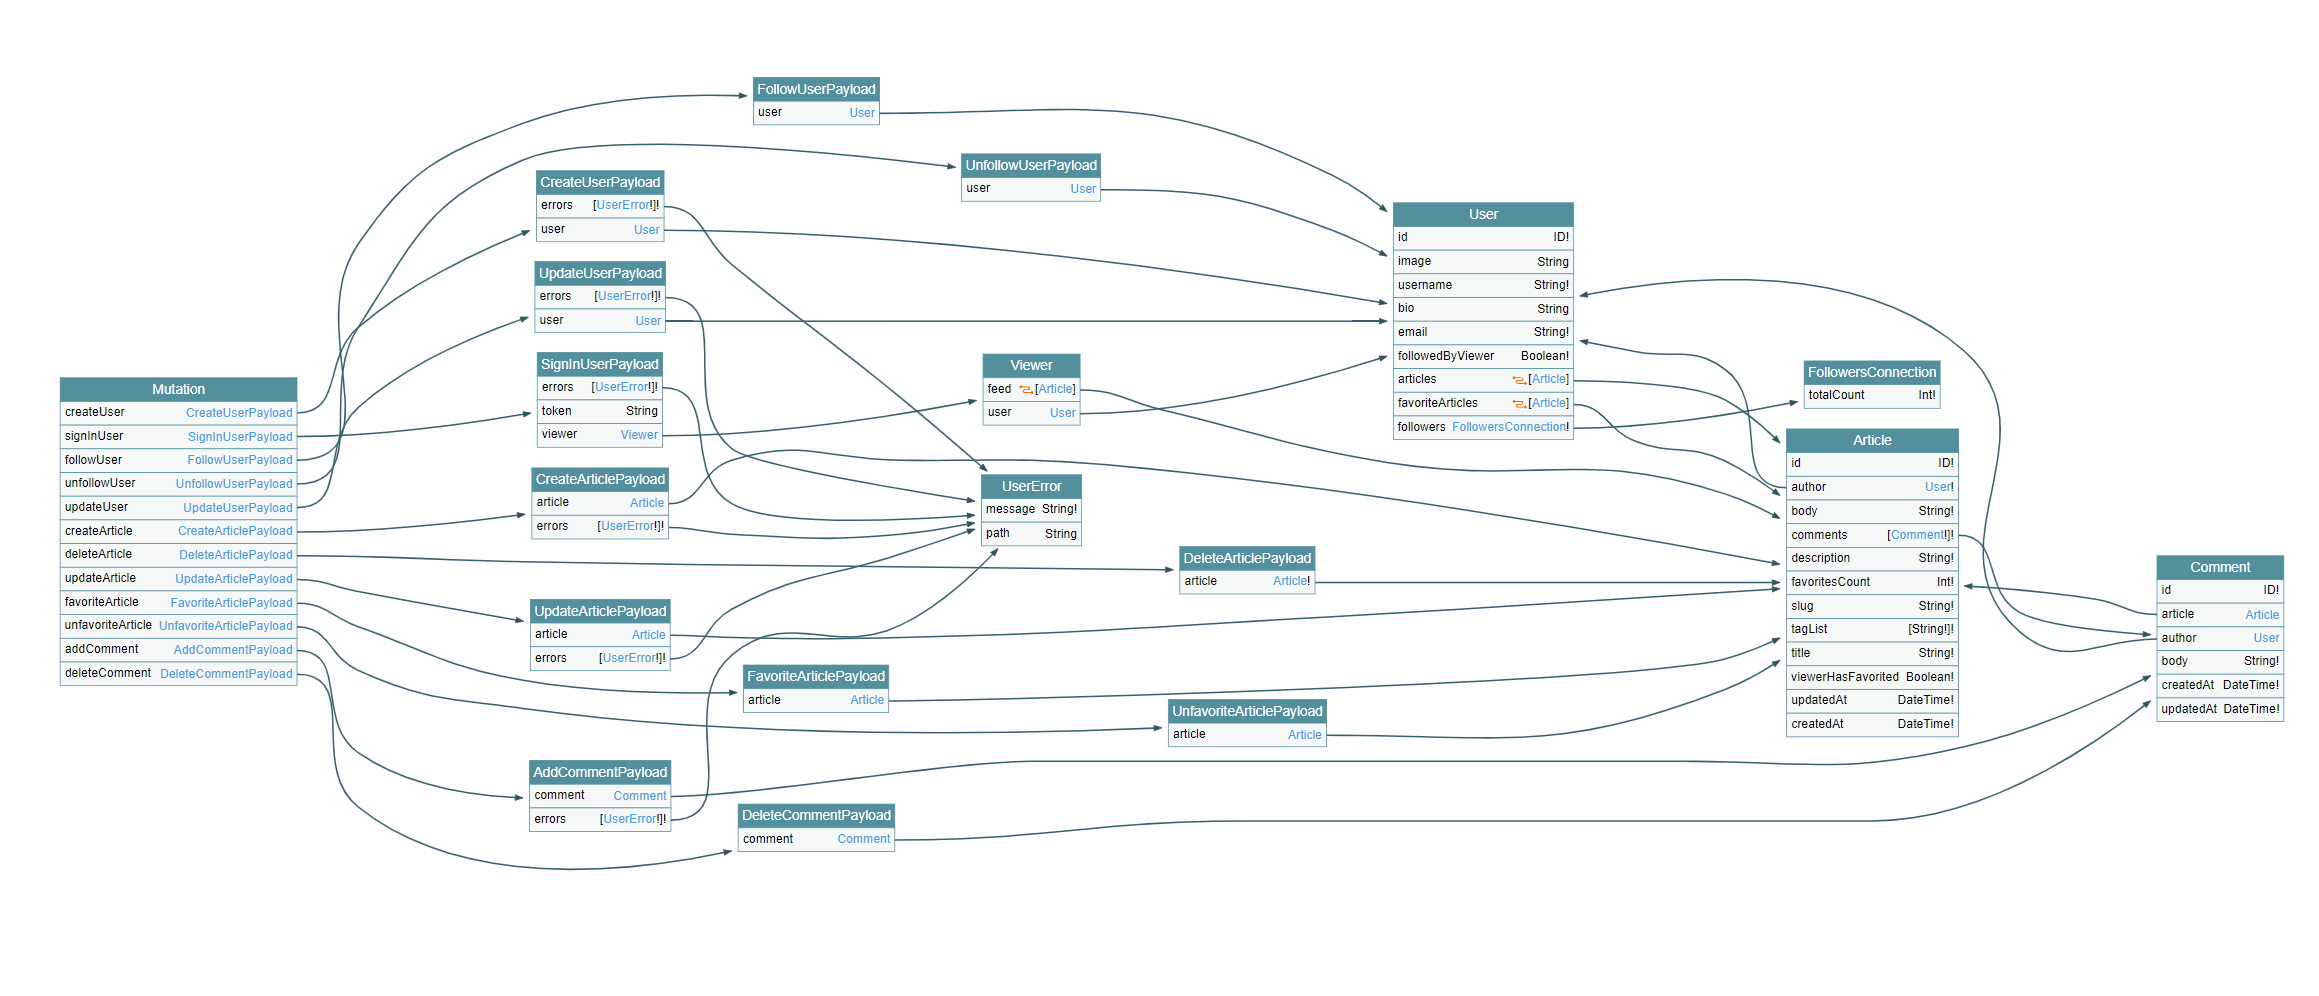
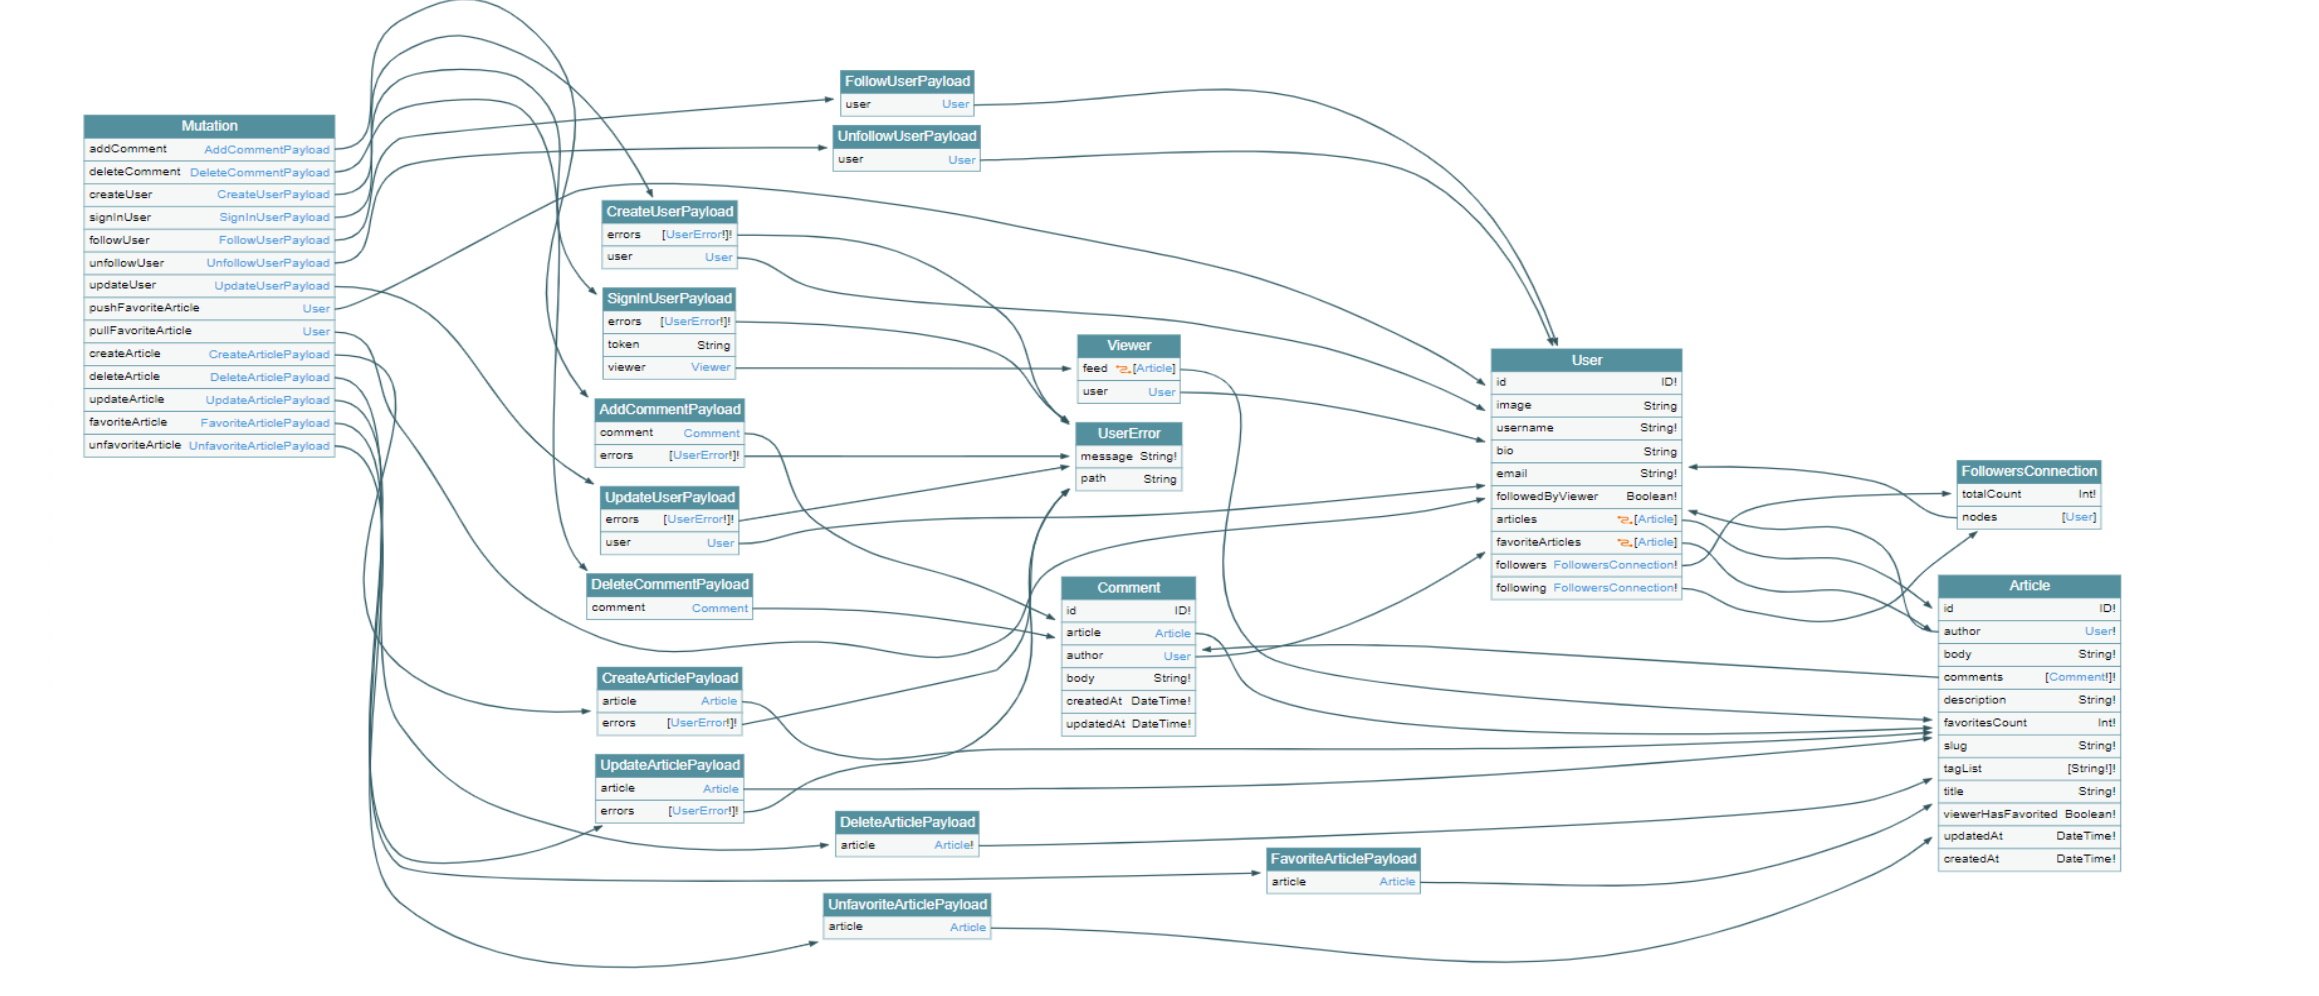
Docs: update readme schema examples

diff --git a/README.md b/README.md
@@ -65,8 +65,10 @@ The foundations of this schema were ported from [rails-graphql-realworld-example
 
 ### Query
 ![GraphQL Voyager Mutation View](./assets/query.jpg)
+
 ### Mutation
 ![GraphQL Voyager Mutation View](./assets/mutation.jpg)
+
 ### SDL
 ```graphql
 directive @Auth(input: AuthInput) on FIELD_DEFINITION
@@ -143,11 +145,6 @@ type CreateUserPayload {
   user: User
 }
 
-"""
-A date-time string at UTC, such as 2007-12-03T10:15:30Z, compliant with the
-`date-time` format outlined in section 5.6 of the RFC 3339 profile of the ISO
-8601 standard for representation of dates and times using the Gregorian calendar.
-"""
 scalar DateTime
 
 input DeleteArticleInput {
@@ -176,6 +173,7 @@ type FavoriteArticlePayload {
 
 type FollowersConnection {
   totalCount: Int!
+  nodes: [User]
 }
 
 input FollowUserInput {
@@ -187,18 +185,20 @@ type FollowUserPayload {
 }
 
 type Mutation {
+  addComment(input: AddCommentInput!): AddCommentPayload
+  deleteComment(input: DeleteCommentInput!): DeleteCommentPayload
   createUser(input: CreateUserInput!): CreateUserPayload
   signInUser(input: SignInUserInput!): SignInUserPayload
   followUser(input: FollowUserInput!): FollowUserPayload
   unfollowUser(input: UnfollowUserInput!): UnfollowUserPayload
   updateUser(input: UpdateUserInput!): UpdateUserPayload
+  pushFavoriteArticle(article: ID!): User
+  pullFavoriteArticle(article: ID!): User
   createArticle(input: CreateArticleInput!): CreateArticlePayload
   deleteArticle(input: DeleteArticleInput!): DeleteArticlePayload
   updateArticle(input: UpdateArticleInput!): UpdateArticlePayload
   favoriteArticle(input: FavoriteArticleInput!): FavoriteArticlePayload
   unfavoriteArticle(input: UnfavoriteArticleInput!): UnfavoriteArticlePayload
-  addComment(input: AddCommentInput!): AddCommentPayload
-  deleteComment(input: DeleteCommentInput!): DeleteCommentPayload
 }
 
 type PageInfo {
@@ -207,8 +207,12 @@ type PageInfo {
 }
 
 type Query {
+  articleComments(article: ID!): [Comment]
   user(username: String!): User
+  userById(id: ID!): User
+  articleUserFavoriteCount(article: ID!): Int
   article(slug: String!): Article
+  articleById(id: ID!): Article
   tags: [String!]!
   viewer: Viewer
   articles(first: Int = 10, after: String = "1", tag: String, forUser: Boolean, feed: Boolean, ids: [String]): ArticleConnection!
@@ -277,6 +281,7 @@ type User {
   articles(first: Int = 10, after: String = "1"): ArticleConnection!
   favoriteArticles(first: Int = 10, after: String = "1"): ArticleConnection!
   followers: FollowersConnection!
+  following: FollowersConnection!
 }
 
 type UserEdge {
